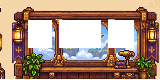
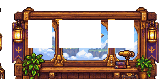
chore: materialize 0696D1 Observation Window source cleanup [skip ci]

Changed region(s): [[0.0, 0.0, 1.0, 1.0]]

diff --git a/src/Cardcha/ModEntry.cs b/src/Cardcha/ModEntry.cs
@@ -397,7 +397,7 @@ internal sealed class ModEntry : Mod
         WorldPhysicalOverlaySafetyPatch.Apply(harmony, this.Monitor);
 
         this.Monitor.Log(
-            "Cardcha! 0.3.0-alpha.28.0.4.14.4.5.12.64 0686 HOLLOW CURATOR ARCHIVE RULE ADAPTATION TEST",
+            "Cardcha! 0.3.0-alpha.28.0.4.14.4.5.12.65 0686 HOLLOW CURATOR ARCHIVE RULE ADAPTATION TEST",
             LogLevel.Info
         );
     }

diff --git a/handoff/LATEST_CARDCHA_HANDOFF.md b/handoff/LATEST_CARDCHA_HANDOFF.md
@@ -3,31 +3,28 @@
 Updated: 2026-09-12
 
 ## Current workstream
-`cardcha-alpha28-0696-airship-concept-faithful-visible-integration`
+`cardcha-alpha28-0696d1-observation-window-source-cleanup`
 
 Current build candidate:
-`0.3.0-alpha.28.0.4.14.4.5.12.64`
+`0.3.0-alpha.28.0.4.14.4.5.12.65`
 
 Current handoff:
-`handoff/ALPHA28_0696C_AIRSHIP_DECK_VISUAL_RECOVERY.md`
-
-## Verified 0696C checkpoint
-- Materialized source: `58e3d80147e6e5490d32b83527587ca4156ff0cc`
-- Successful CI run: `34698643517`
-- Artifact ID: `10298949682`
[1 lines of base64/hex data omitted]
-- Technical validation: **PASS**
-- Visual acceptance: **PENDING-RON-IN-GAME**
+`handoff/ALPHA28_0696D1_OBSERVATION_WINDOW_SOURCE_CLEANUP.md`
 
 ## Status
-- 0696A architecture: technical baseline.
-- 0696B `.63`: **VISUAL REJECTED by Ron** from in-game screenshots.
-- 0696C `.64`: repairs explicit season/time/weather window matrix, removes black window fallback frames, restores four upgrade stations, adds visible room shell, and guards the Deck from black-void escape.
-- All 80 window backdrops are package-gated fully opaque; rain/snow/cloud motion remains a separate runtime FX layer and storm keeps lightning overlay behavior.
-- Sky Dock and unrelated Region maps were frozen during 0696C.
+- 0696C `.64`: technical PASS but visually rejected for remaining yellow/matte hero-prop source contamination.
+- 0696D.1 isolates **Observation Window source cleanup only**.
+- Window footprint remains 160x80 / 10x5 tiles.
+- RGB artwork is byte-identical before/after cleanup; only alpha for border-connected matte pixels changes.
+- Navigation Console is intentionally deferred to 0696D.3.
+- Window season/time/weather matrix is intentionally deferred to 0696D.2.
+- Visual acceptance remains **PENDING-RON-VISUAL**.
 
-## Next acceptance step
-Ron should replace `.63` with the verified `.64` TEST package and inspect the Airship Deck in game. Report visual/layer problems with screenshots; do not promote the pass based on CI alone.
+## Continuation order
+1. 0696D.1 Observation Window Source Cleanup
+2. 0696D.2 Window Environment Matrix Rebuild
+3. 0696D.3 Navigation Console Source Cleanup
+4. 0696D.4 Deck Integration & Acceptance
 
 ## Non-negotiable rule
-Technical PASS never equals visual PASS. Preserve exact hero prop footprints and base `Buildings` collision ownership. Never reintroduce `BackDecor`.
+Do not merge the four passes into one recovery blob. Each pass must pass independently before the next is promoted.

diff --git a/handoff/ALPHA28_0696D1_OBSERVATION_WINDOW_SOURCE_CLEANUP.md b/handoff/ALPHA28_0696D1_OBSERVATION_WINDOW_SOURCE_CLEANUP.md
@@ -1,0 +1,40 @@
+# Alpha 28 / 0696D.1 — Observation Window Source Cleanup
+
+## Status
+- Branch: `cardcha-alpha28-0696d1-observation-window-source-cleanup`
+- Build: `0.3.0-alpha.28.0.4.14.4.5.12.65`
+- Scope: Observation Window source only
+- Technical validation: **PASS when CI validates this materialized output**
+- Visual acceptance: **PENDING-RON-VISUAL**
+
+## Why this pass exists
+Ron rejected the remaining pale/yellow rectangle around the Observation Window. Inspection confirmed the rectangle is not merely a debug overlay: `observation_window_base.png` itself contains a large opaque export matte connected to the canvas edge.
+
+## D1 rule
+This pass is deliberately narrow. It does **not** rebuild the 80 environment states and does **not** touch Navigation Console cleanup. Those are separate passes D2 and D3.
+
+## What D1 changes
+- preserves the exact 160x80 footprint;
+- preserves every RGB pixel of the approved Observation Window artwork;
+- changes alpha only for border-connected pixels near the known matte palette;
+- rebuilds `window_runtime/observation_window_frame.png` from the cleaned source;
+- preserves the current aperture mask and 80-state environment matrix for D2;
+- leaves Navigation Console source untouched for D3.
+
+## Cleanup evidence
+- opaque matte pixels made transparent: **2625**
+- transparent pixels before: **163**
+- transparent pixels after: **2788**
[2 lines of base64/hex data omitted]
+- RGB identity preserved: **TRUE**
+
+## Non-goals
+- no console cleanup;
+- no environment-matrix repaint/rebuild;
+- no layer/collision redesign;
+- no room-shell change;
+- no rescale or redraw.
+
+## Next pass
+After Ron confirms the source/frame matte is gone, continue with **0696D.2 — Window Environment Matrix Rebuild**, using this clean source as the only allowed frame/base input.
